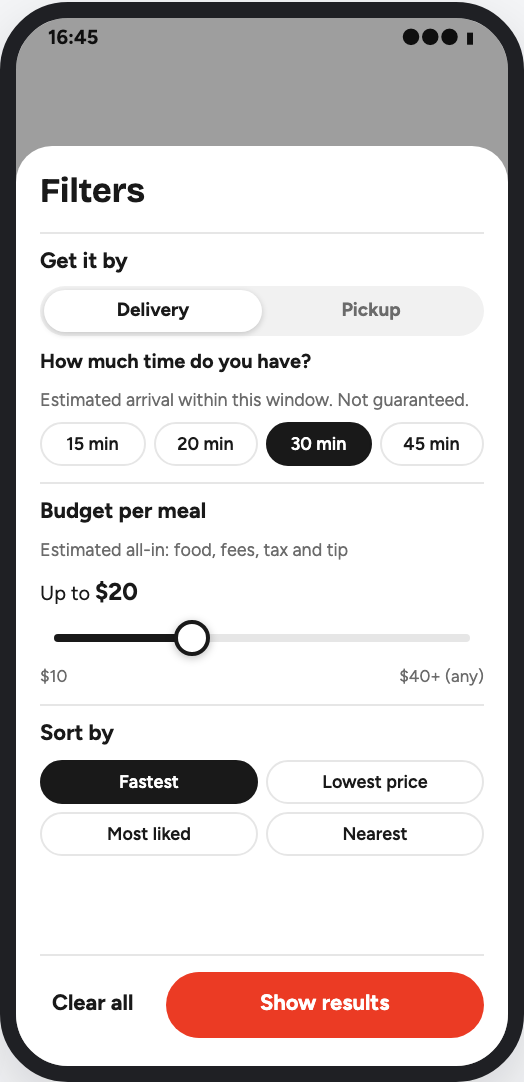
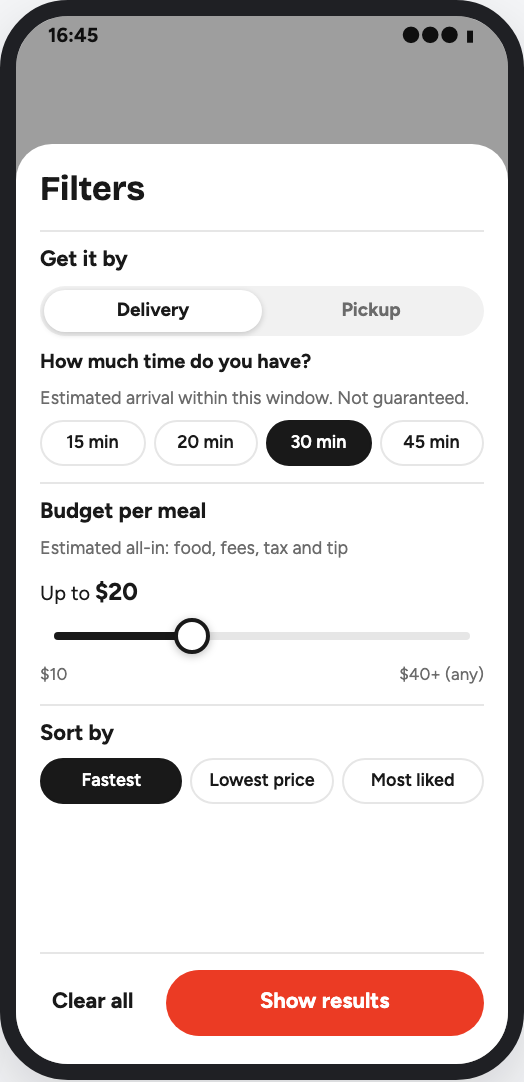
Drop Nearest from Delivery and stop the list flashing on back
Sorts: Delivery offers Fastest, Lowest price and Most liked; Pickup
offers Nearest, Lowest price and Most liked. For delivery the time
already includes the trip, so Nearest added nothing. A sort a side does
not have becomes its default, so switching sides swaps Fastest and
Nearest. The design page, its P2 rule and mockup 3 match.

Flicker: going back from a menu mounted the list again. It first drew
skeletons until the cached search answer arrived a moment later, and
each photo tile drew its name label over the photo until onLoad fired.
The list now shows a cached answer in its first render, and the label
sits under the photo, so a photo the browser has covers it at once.
A new e2e test fails on the old code for each cause.

diff --git a/docs/design.html b/docs/design.html
@@ -257,7 +257,7 @@ footer { margin-top: 56px; font-size: 0.85rem; color: var(--muted); }
       <li>Budget means the <b>estimated all-in price of one meal</b>: food, fees, tax and tip, so the total at checkout is no surprise.</li>
       <li>Results are <b>meals</b>, one per restaurant. Other meals that fit show as "+2 more under $20" and open the restaurant's menu.</li>
       <li><b>Delivery or pickup, not both</b>: one switch in the Filters sheet. Delivery filters by time, pickup filters by distance. Only one of the two is on at a time (P7). Pickup cards show the distance and no time, and the all-in price has no delivery fee.</li>
-      <li><b>Every sort is visible</b>: Fastest (the default), Lowest price, Most liked, Nearest. Each one sorts by a number on the card. There is no "Best match".</li>
+      <li><b>Every sort is visible</b>: Fastest (the default), Lowest price and Most liked for delivery; Nearest takes the place of Fastest for pickup. Each one sorts by a number on the card. There is no "Best match".</li>
       <li><b>Evidence</b>: each decision cites the team's press release, concept thesis and Worksheet 2. Those documents use the concept's earlier name, Busy Mode; Quick Meal is the current name.</li>
       <li><b>Cuisine tabs</b> across the top (All, Chinese, Indian …), one at a time. Chip row: Filters, then time (or distance for pickup), then a budget <b>slider</b>. Sort lives in the full Filters sheet.</li>
       <li>No match is a designed state. It shows the <b>closest meals</b>, says how each one misses, and offers chips like "Budget up to $17 · 1 result".</li>
@@ -426,7 +426,7 @@ footer { margin-top: 56px; font-size: 0.85rem; color: var(--muted); }
             </div>
             <div class="ph-grp">
               <span class="gt">Sort by</span>
-              <div class="ph-opts" style="grid-template-columns: repeat(2, 1fr)"><span class="ph-o on">Fastest</span><span class="ph-o">Lowest price</span><span class="ph-o">Most liked</span><span class="ph-o">Nearest</span></div>
+              <div class="ph-opts" style="grid-template-columns: repeat(3, 1fr)"><span class="ph-o on">Fastest</span><span class="ph-o">Lowest price</span><span class="ph-o">Most liked</span></div>
             </div>
           </div>
           <div class="ph-foot"><span class="clr">Clear all</span><span class="go">Show results</span></div>
@@ -545,7 +545,7 @@ footer { margin-top: 56px; font-size: 0.85rem; color: var(--muted); }
         <dt>Sizes</dt><dd>The budget slider takes more room than the time steps. A teammate asked for a bigger time control. We keep the sizes: time is already first in the sheet and in the chip row, a slider needs width to drag with a thumb, and four time steps fit in one row.</dd>
         <dt>Distance</dt><dd>The Pickup side of the switch (P7). It asks "How far can you go?". Steps depend on the user's location. A dense area like downtown San Jose gets 0.5 · 1 · 2 · 3 mi. A spread-out suburb gets 1 · 2 · 3 · 5 mi.</dd>
         <dt>Cuisine</dt><dd>Tabs: All · Chinese · Indian · Mexican · Pizza · Burgers · Healthy · Fast Food · Sushi. One at a time; All means any cuisine. The row scrolls sideways. A place can carry several tags, since Healthy and Fast Food are tags rather than cuisines, so one place can appear under more than one tab. Tabs show no counts. The Filters badge does not count the tab, because the selected tab is already visible. Applying filters keeps the current tab.</dd>
-        <dt>Sort</dt><dd>Delivery: Fastest · Lowest price · Most liked · Nearest. Pickup: Nearest · Lowest price · Most liked. The first one is the default. Only in the full sheet. Each sort uses one number the card shows: the time, the all-in price, the dish like rate or the distance. Pickup cards show no time, so Pickup has no Fastest. Switching sides swaps the two defaults: Fastest becomes Nearest in Pickup, and Nearest becomes Fastest in Delivery. Lowest price and Most liked stay. Picking a step on the side you are already on never changes the sort.</dd>
+        <dt>Sort</dt><dd>Delivery: Fastest · Lowest price · Most liked. Pickup: Nearest · Lowest price · Most liked. The first one is the default. Only in the full sheet. Each sort uses one number the card shows: the time, the all-in price, the dish like rate or the distance. Each side sorts by speed in its own unit: time for delivery, distance for pickup. Pickup cards show no time, so Pickup has no Fastest. For delivery the time already includes the trip (P7), so Delivery has no Nearest. Switching sides swaps Fastest and Nearest; Lowest price and Most liked stay.</dd>
         <dt>No "Best match"</dt><dd>Version 35 removed it. It mixed like rate, stars and time in a way the student could not see, so it looked like a pick made for them. A sort the student can read from the card keeps the order honest.</dd>
         <dt>Chip tap</dt><dd>Each chip opens a small sheet for that one filter. The Time chip reads "30 min" for delivery or "Pickup · 1 mi" for pickup, and its sheet has the same Delivery | Pickup switch. A step applies at once when you pick it. Budget shows a "Show results" button, so a drag does not reload the list on every dollar. A tab applies at once.</dd>
         <dt>No live count</dt><dd>The button reads "Show results" and the search runs only when the user applies. A live count needs a request on every change, and a slow answer can show a stale number (for example "Show 0 results" that then shows meals). The count line on the list shows the number after applying.</dd>
@@ -824,7 +824,7 @@ footer { margin-top: 56px; font-size: 0.85rem; color: var(--muted); }
           <tr><td>Slider at the ends</td><td>Far right "$40+ (any)" removes the budget filter and the Budget chip turns grey again. Far left "$10" is allowed. It usually gives no exact match, which leads to the no-match state.</td></tr>
           <tr><td>One filter only</td><td>Works like the rest. The other chips stay grey.</td></tr>
           <tr><td>Switch Delivery to Pickup</td><td>In the sheet, the time steps change to distance steps and the time step is cleared. Nothing applies until "Show results". Switching back shows the time steps with none picked.</td></tr>
-          <tr><td>Fastest, then Pickup</td><td>Pickup cards show no time, so Pickup has no Fastest. The sort becomes Nearest. Switching back to Delivery makes it Fastest again. A Nearest the student picked in Delivery stays while they change the time.</td></tr>
+          <tr><td>Fastest, then Pickup</td><td>Pickup has no Fastest, so the sort becomes Nearest. Switching back to Delivery makes it Fastest again. A link with a sort its side does not have, such as <code>?time=30&amp;sort=nearest</code>, opens with that side's default.</td></tr>
           <tr><td>Old <code>sort=best</code> link</td><td>Opens with the default sort for its side (Fastest or Nearest).</td></tr>
           <tr><td>Link with time and distance</td><td>An old link such as <code>?time=20&amp;distance=1</code> opens in Delivery with 20 min. The distance is dropped.</td></tr>
           <tr><td>Clear all</td><td>In the sheet: resets choices. Nothing applies until "Show results".</td></tr>

diff --git a/e2e/loading.spec.ts b/e2e/loading.spec.ts
@@ -30,3 +30,44 @@ test('a filter change keeps the old list, dimmed, until the new one arrives', as
   await expect(page.getByTestId('count-line')).toHaveText('3 places have a meal that fits · fastest first')
   await expect(page.getByTestId('meal-card')).toHaveCount(3)
 })
+
+test('going back from a menu shows the same list at once: no skeleton, no loading bar, no name over a photo', async ({
+  page,
+}) => {
+  // Watches every DOM change after the back tap, before the browser paints it.
+  // Page code is a string: the e2e tsconfig has no DOM types.
+  await page.addInitScript(`
+    window.watch = false
+    window.seen = []
+    new MutationObserver(() => {
+      if (!window.watch) return
+      if (document.querySelector('.meal-skel')) window.seen.push('skeleton')
+      if (document.querySelector('[data-testid="results"][aria-busy="true"]')) window.seen.push('loading')
+      for (const tile of document.querySelectorAll('[data-testid="meal-card"] .tile')) {
+        const img = tile.querySelector('img')
+        const name = tile.querySelector('span')
+        if (!img || !img.complete || !name) continue
+        const r = name.getBoundingClientRect()
+        if (document.elementFromPoint(r.x + r.width / 2, r.y + r.height / 2) === name) window.seen.push('name over photo')
+      }
+    }).observe(document, { subtree: true, childList: true, attributes: true })
+  `)
+  const watch = (on: boolean) => page.evaluate(`window.watch = ${on}; window.seen = []`)
+  const seen = () => page.evaluate<string[]>('window.seen')
+
+  await page.goto('/quick-meal?budget=20&time=30')
+  await waitForResults(page)
+  const photosDone = `[...document.querySelectorAll('[data-testid="meal-card"] img')].every((i) => i.complete)`
+  await expect.poll(() => page.evaluate<boolean>(photosDone)).toBe(true)
+
+  for (const goBack of [() => page.goBack(), () => page.getByLabel('Back').click()]) {
+    await page.getByTestId('meal-card').first().click()
+    await waitForResults(page, 'menu-results')
+    await watch(true)
+    await goBack()
+    await expect(page).toHaveURL(/\/quick-meal\?budget=20&time=30$/)
+    await expect(page.getByTestId('meal-card')).toHaveCount(6)
+    expect(await seen()).toEqual([])
+    await watch(false)
+  }
+})

diff --git a/src/api.ts b/src/api.ts
@@ -12,14 +12,17 @@ export class ApiError extends Error {
 // so a cached answer is always right. A real backend would need a short expiry here.
 const cache = new Map<string, unknown>()
 
-async function get<T>(path: string, params: URLSearchParams, signal?: AbortSignal): Promise<T> {
+function request(path: string, params: URLSearchParams): { url: string; cacheable: boolean } {
   const query = new URLSearchParams(params)
   // Lets us demo the error state with /quick-meal?fail=1
   if (new URLSearchParams(window.location.search).get('fail') === '1') query.set('fail', '1')
   const qs = query.toString()
-  const url = qs ? `${path}?${qs}` : path
   // Never cache the simulated failure, so every retry really asks the server again.
-  const cacheable = query.get('fail') !== '1'
+  return { url: qs ? `${path}?${qs}` : path, cacheable: query.get('fail') !== '1' }
+}
+
+async function get<T>(path: string, params: URLSearchParams, signal?: AbortSignal): Promise<T> {
+  const { url, cacheable } = request(path, params)
   if (cacheable && cache.has(url)) return cache.get(url) as T
   const res = await fetch(url, { signal })
   if (!res.ok) {
@@ -37,6 +40,12 @@ export function getHome(signal?: AbortSignal): Promise<HomeData> {
 
 export function searchMeals(params: URLSearchParams, signal?: AbortSignal): Promise<SearchResponse> {
   return get('/api/quick-meal/search', params, signal)
+}
+
+// The answer we already have for this search, if any, so a screen can show it in its first render.
+export function cachedSearch(params: URLSearchParams): SearchResponse | undefined {
+  const { url, cacheable } = request('/api/quick-meal/search', params)
+  return cacheable ? (cache.get(url) as SearchResponse | undefined) : undefined
 }
 
 export function getMenu(id: string, params: URLSearchParams, signal?: AbortSignal): Promise<MenuView> {

diff --git a/src/screens/QuickMealScreen.tsx b/src/screens/QuickMealScreen.tsx
@@ -2,7 +2,7 @@ import { useEffect, useState } from 'react'
 import { SORTS } from '../../shared/constants'
 import { pluralize } from '../../shared/format'
 import type { DistanceStep, MealCard as Meal, Relax, SearchResponse, TimeStep } from '../../shared/types'
-import { searchMeals } from '../api'
+import { cachedSearch, searchMeals } from '../api'
 import { BreakdownSheet } from '../components/BreakdownSheet'
 import { BudgetSheet } from '../components/BudgetSheet'
 import { CuisineTabs } from '../components/CuisineTabs'
@@ -43,10 +43,15 @@ export function QuickMealScreen() {
   const key = toQuery(filters)
 
   const [attempt, setAttempt] = useState(0)
+  // Going back from a menu mounts this screen again. If the answer for this URL is cached,
+  // the first render shows it: no skeletons, no loading bar, and the same cards as before.
+  const [cached] = useState(() => cachedSearch(new URLSearchParams(key)) ?? null)
   // The answer to one request. data is null when the request failed.
-  const [result, setResult] = useState<{ req: string; data: SearchResponse | null } | null>(null)
+  const [result, setResult] = useState<{ req: string; data: SearchResponse | null } | null>(
+    cached && { req: `${key}#0`, data: cached },
+  )
   // The last successful answer. It stays on screen while the next request loads.
-  const [shown, setShown] = useState<SearchResponse | null>(null)
+  const [shown, setShown] = useState<SearchResponse | null>(cached)
   // The tapped card and whether it was priced for pickup, fixed at tap time.
   const [priced, setPriced] = useState<{ card: Meal; pickup: boolean } | null>(null)
   const [open, setOpen] = useState<SheetKind | null>(null)

diff --git a/src/components/FoodTile.tsx b/src/components/FoodTile.tsx
@@ -1,7 +1,7 @@
 import { useState } from 'react'
 import type { PhotoKind } from '../../shared/types'
 
-// Two warm colors per kind. They show while a photo loads, or if it fails.
+// Two warm colors and the kind's name. They show while a photo loads, or if it fails.
 const COLORS: Record<PhotoKind, [string, string]> = {
   bowl: ['#d9822b', '#f2b45e'],
   noodles: ['#c8561f', '#eba04a'],
@@ -23,7 +23,6 @@ const COLORS: Record<PhotoKind, [string, string]> = {
 
 export function FoodTile({ kind, size }: { kind: PhotoKind; size: 'card' | 'thumb' | 'hero' }) {
   const [a, b] = COLORS[kind]
-  const [loaded, setLoaded] = useState(false)
   const [failed, setFailed] = useState(false)
   return (
     <div
@@ -32,16 +31,10 @@ export function FoodTile({ kind, size }: { kind: PhotoKind; size: 'card' | 'thum
       aria-label={kind}
       style={{ background: `linear-gradient(135deg, ${a}, ${b})` }}
     >
-      {!failed && (
-        <img
-          src={`/img/${kind}.webp`}
-          alt=""
-          loading="lazy"
-          onLoad={() => setLoaded(true)}
-          onError={() => setFailed(true)}
-        />
-      )}
-      {!loaded && <span aria-hidden="true">{kind}</span>}
+      {/* The photo covers the name once it paints. A photo the browser already has paints in the
+          first frame, so a remounted tile never shows the name over it while it waits for onLoad. */}
+      <span aria-hidden="true">{kind}</span>
+      {!failed && <img src={`/img/${kind}.webp`} alt="" loading="lazy" onError={() => setFailed(true)} />}
     </div>
   )
 }

diff --git a/e2e/filters.spec.ts b/e2e/filters.spec.ts
@@ -291,11 +291,22 @@ test('switching sides swaps Fastest and Nearest, and a step on the same side kee
   await expect(page.getByTestId('count-line')).toContainText('fastest first')
   await expect(page).toHaveURL(/\/quick-meal\?time=30$/)
 
-  // Delivery + Nearest chosen on purpose keeps Nearest when another step is picked.
-  await page.goto('/quick-meal?time=30&sort=nearest')
+  // Delivery shows no Nearest option: each side shows exactly 3 sorts.
+  await page.getByTestId('chip-filters').click()
+  await expect(sheet.locator('[data-testid^="sort-"]')).toHaveText(['Fastest', 'Lowest price', 'Most liked'])
+  await sheet.getByTestId('side-pickup').click()
+  await expect(sheet.locator('[data-testid^="sort-"]')).toHaveText(['Nearest', 'Lowest price', 'Most liked'])
+
+  // Lowest price survives switches, and a step on the same side keeps it.
+  await page.goto('/quick-meal?time=30&sort=price')
   await waitForResults(page)
   await page.getByTestId('chip-time').click()
   await page.getByTestId('step-time-45').click()
   await waitForResults(page)
-  await expect(page).toHaveURL(/\/quick-meal\?time=45&sort=nearest$/)
+  await expect(page).toHaveURL(/\/quick-meal\?time=45&sort=price$/)
+  await page.getByTestId('chip-filters').click()
+  await sheet.getByTestId('side-pickup').click()
+  await expect(sheet.getByTestId('sort-price')).toHaveAttribute('aria-pressed', 'true')
+  await sheet.getByTestId('side-delivery').click()
+  await expect(sheet.getByTestId('sort-price')).toHaveAttribute('aria-pressed', 'true')
 })

diff --git a/shared/constants.ts b/shared/constants.ts
@@ -21,20 +21,22 @@ export const CUISINES = [
   { id: 'fast-food', label: 'Fast Food' },
   { id: 'sushi', label: 'Sushi' },
 ] as const;
-// Every sort uses a number the card shows (design P2). This is the Delivery order.
+// Every sort uses a number the card shows (design P2). These are all the sorts the API knows.
 export const SORTS = [
   { id: 'fastest', label: 'Fastest' },
   { id: 'price', label: 'Lowest price' },
   { id: 'liked', label: 'Most liked' },
   { id: 'nearest', label: 'Nearest' },
 ] as const;
-// Pickup cards show no time, so Pickup has no Fastest. The first sort of each side is its default.
+// Each side shows 3 sorts. Delivery has no Nearest and Pickup has no Fastest.
+// The first sort of each side is its default.
+export const DELIVERY_SORT_IDS = ['fastest', 'price', 'liked'] as const;
 export const PICKUP_SORT_IDS = ['nearest', 'price', 'liked'] as const;
 
 // The asked sort if the side has it, otherwise the side's default.
-// So an old sort=best link, or Fastest after a switch to Pickup, gets a sort the side shows.
+// So an old sort=best link, or a sort from the other side, gets a sort the side shows.
 export function sortFor(raw: string | null | undefined, pickup: boolean): SortId {
-  const ids: readonly SortId[] = pickup ? PICKUP_SORT_IDS : SORTS.map((s) => s.id);
+  const ids: readonly SortId[] = pickup ? PICKUP_SORT_IDS : DELIVERY_SORT_IDS;
   return ids.find((id) => id === raw) ?? ids[0];
 }
 export const PHOTO_KINDS = [

diff --git a/src/components/FiltersSheet.tsx b/src/components/FiltersSheet.tsx
@@ -1,13 +1,15 @@
 import { useState } from 'react'
-import { PICKUP_SORT_IDS, SORTS } from '../../shared/constants'
+import { DELIVERY_SORT_IDS, PICKUP_SORT_IDS, SORTS } from '../../shared/constants'
 import { toSide } from '../state/filters'
 import type { UiFilters } from '../state/filters'
 import { BudgetSlider } from './BudgetSlider'
 import { Sheet } from './Sheet'
 import { SpeedPicker } from './StepSheet'
 
-// Delivery shows every sort. Pickup cards show no time, so Pickup has no Fastest (design P2).
-const PICKUP_SORTS = PICKUP_SORT_IDS.map((id) => SORTS.find((s) => s.id === id)!)
+// Each side shows the 3 sorts its cards have numbers for (design P2).
+const sorts = (ids: readonly string[]) => ids.map((id) => SORTS.find((s) => s.id === id)!)
+const DELIVERY_SORTS = sorts(DELIVERY_SORT_IDS)
+const PICKUP_SORTS = sorts(PICKUP_SORT_IDS)
 
 export function ApplyButton({ onClick, text = 'Show results' }: { onClick: () => void; text?: string }) {
   return (
@@ -51,8 +53,8 @@ export function FiltersSheet({
       </div>
       <div className="grp">
         <h3>Sort by</h3>
-        <div className="opts two">
-          {(pickup ? PICKUP_SORTS : SORTS).map((s) => (
+        <div className="opts three">
+          {(pickup ? PICKUP_SORTS : DELIVERY_SORTS).map((s) => (
             <button
               key={s.id}
               className={s.id === draft.sort ? 'opt on' : 'opt'}

diff --git a/test/filters-url.test.ts b/test/filters-url.test.ts
@@ -31,7 +31,9 @@ describe('filters in the URL', () => {
   it('defaults the sort by side: Fastest for delivery, Nearest for pickup', () => {
     expect(parseUrl('?distance=1').sort).toBe('nearest')
     expect(parseUrl('?distance=1&sort=fastest').sort).toBe('nearest')
-    expect(parseUrl('?time=30&sort=nearest').sort).toBe('nearest')
+    // Each side has only its own speed sort: Delivery has no Nearest, Pickup has no Fastest.
+    expect(parseUrl('?time=30&sort=nearest').sort).toBe('fastest')
+    expect(parseUrl('?sort=nearest').sort).toBe('fastest')
     // An old sort=best link opens with the side's default.
     expect(parseUrl('?sort=best').sort).toBe('fastest')
     expect(parseUrl('?distance=1&sort=best').sort).toBe('nearest')
@@ -51,7 +53,7 @@ describe('filters in the URL', () => {
   it("toQuery leaves out empty fields and the side's default sort", () => {
     expect(toQuery(NONE)).toBe('')
     expect(toQuery({ ...NONE, budget: 20 })).toBe('budget=20')
-    expect(toQuery({ ...NONE, sort: 'nearest' })).toBe('sort=nearest')
+    expect(toQuery({ ...NONE, sort: 'price' })).toBe('sort=price')
     expect(toQuery({ ...NONE, distance: 1, sort: 'nearest' })).toBe('distance=1')
     expect(toQuery({ ...NONE, distance: 1, sort: 'price' })).toBe('distance=1&sort=price')
   })

diff --git a/src/state/filters.ts b/src/state/filters.ts
@@ -39,12 +39,10 @@ export function parseUrl(search: string): UiFilters {
   }
 }
 
-// Switches to the other side: clears this side's value and swaps the two defaults.
+// Switches to the other side: clears the other side's value and swaps the two defaults.
 // Fastest becomes Nearest in Pickup, and Nearest becomes Fastest in Delivery. Other sorts stay.
-// Call it only when the side changes. Picking a step on the current side leaves the sort alone.
 export function toSide(f: UiFilters, pickup: boolean): UiFilters {
-  if (pickup) return { ...f, time: null, sort: sortFor(f.sort, true) }
-  return { ...f, distance: null, sort: f.sort === 'nearest' ? 'fastest' : f.sort }
+  return { ...f, ...(pickup ? { time: null } : { distance: null }), sort: sortFor(f.sort, pickup) }
 }
 
 // Leaves out empty filters and the side's default sort, so URLs stay short.

diff --git a/test/api.test.ts b/test/api.test.ts
@@ -103,6 +103,15 @@ describe('handleApi', () => {
     expect(body.fits[0].price.totalCents).toBe(1873)
   })
 
+  it("a sort the side does not have gets the side's default sort", async () => {
+    const delivery = await get('/api/quick-meal/search?time=30&sort=nearest')
+    expect(delivery.res.status).toBe(200)
+    expect(delivery.body.filters.sort).toBe('fastest')
+    const noSide = await get('/api/quick-meal/search?sort=nearest')
+    expect(noSide.res.status).toBe(200)
+    expect(noSide.body.filters.sort).toBe('fastest')
+  })
+
   it("search?sort=best opens with the side's default sort", async () => {
     const delivery = await get('/api/quick-meal/search?sort=best')
     expect(delivery.res.status).toBe(200)

diff --git a/src/components/StepSheet.tsx b/src/components/StepSheet.tsx
@@ -1,5 +1,5 @@
 import { useState } from 'react'
-import { DISTANCE_STEPS, TIME_STEPS, sortFor } from '../../shared/constants'
+import { DISTANCE_STEPS, TIME_STEPS } from '../../shared/constants'
 import { formatMiles } from '../../shared/format'
 import { toSide } from '../state/filters'
 import type { UiFilters } from '../state/filters'
@@ -74,7 +74,7 @@ export function SpeedPicker({
             name="distance"
             steps={DISTANCE_STEPS}
             value={filters.distance}
-            onPick={(distance) => onPick({ ...filters, time: null, sort: sortFor(filters.sort, true), distance })}
+            onPick={(distance) => onPick({ ...filters, time: null, distance })}
           />
         </>
       ) : (
